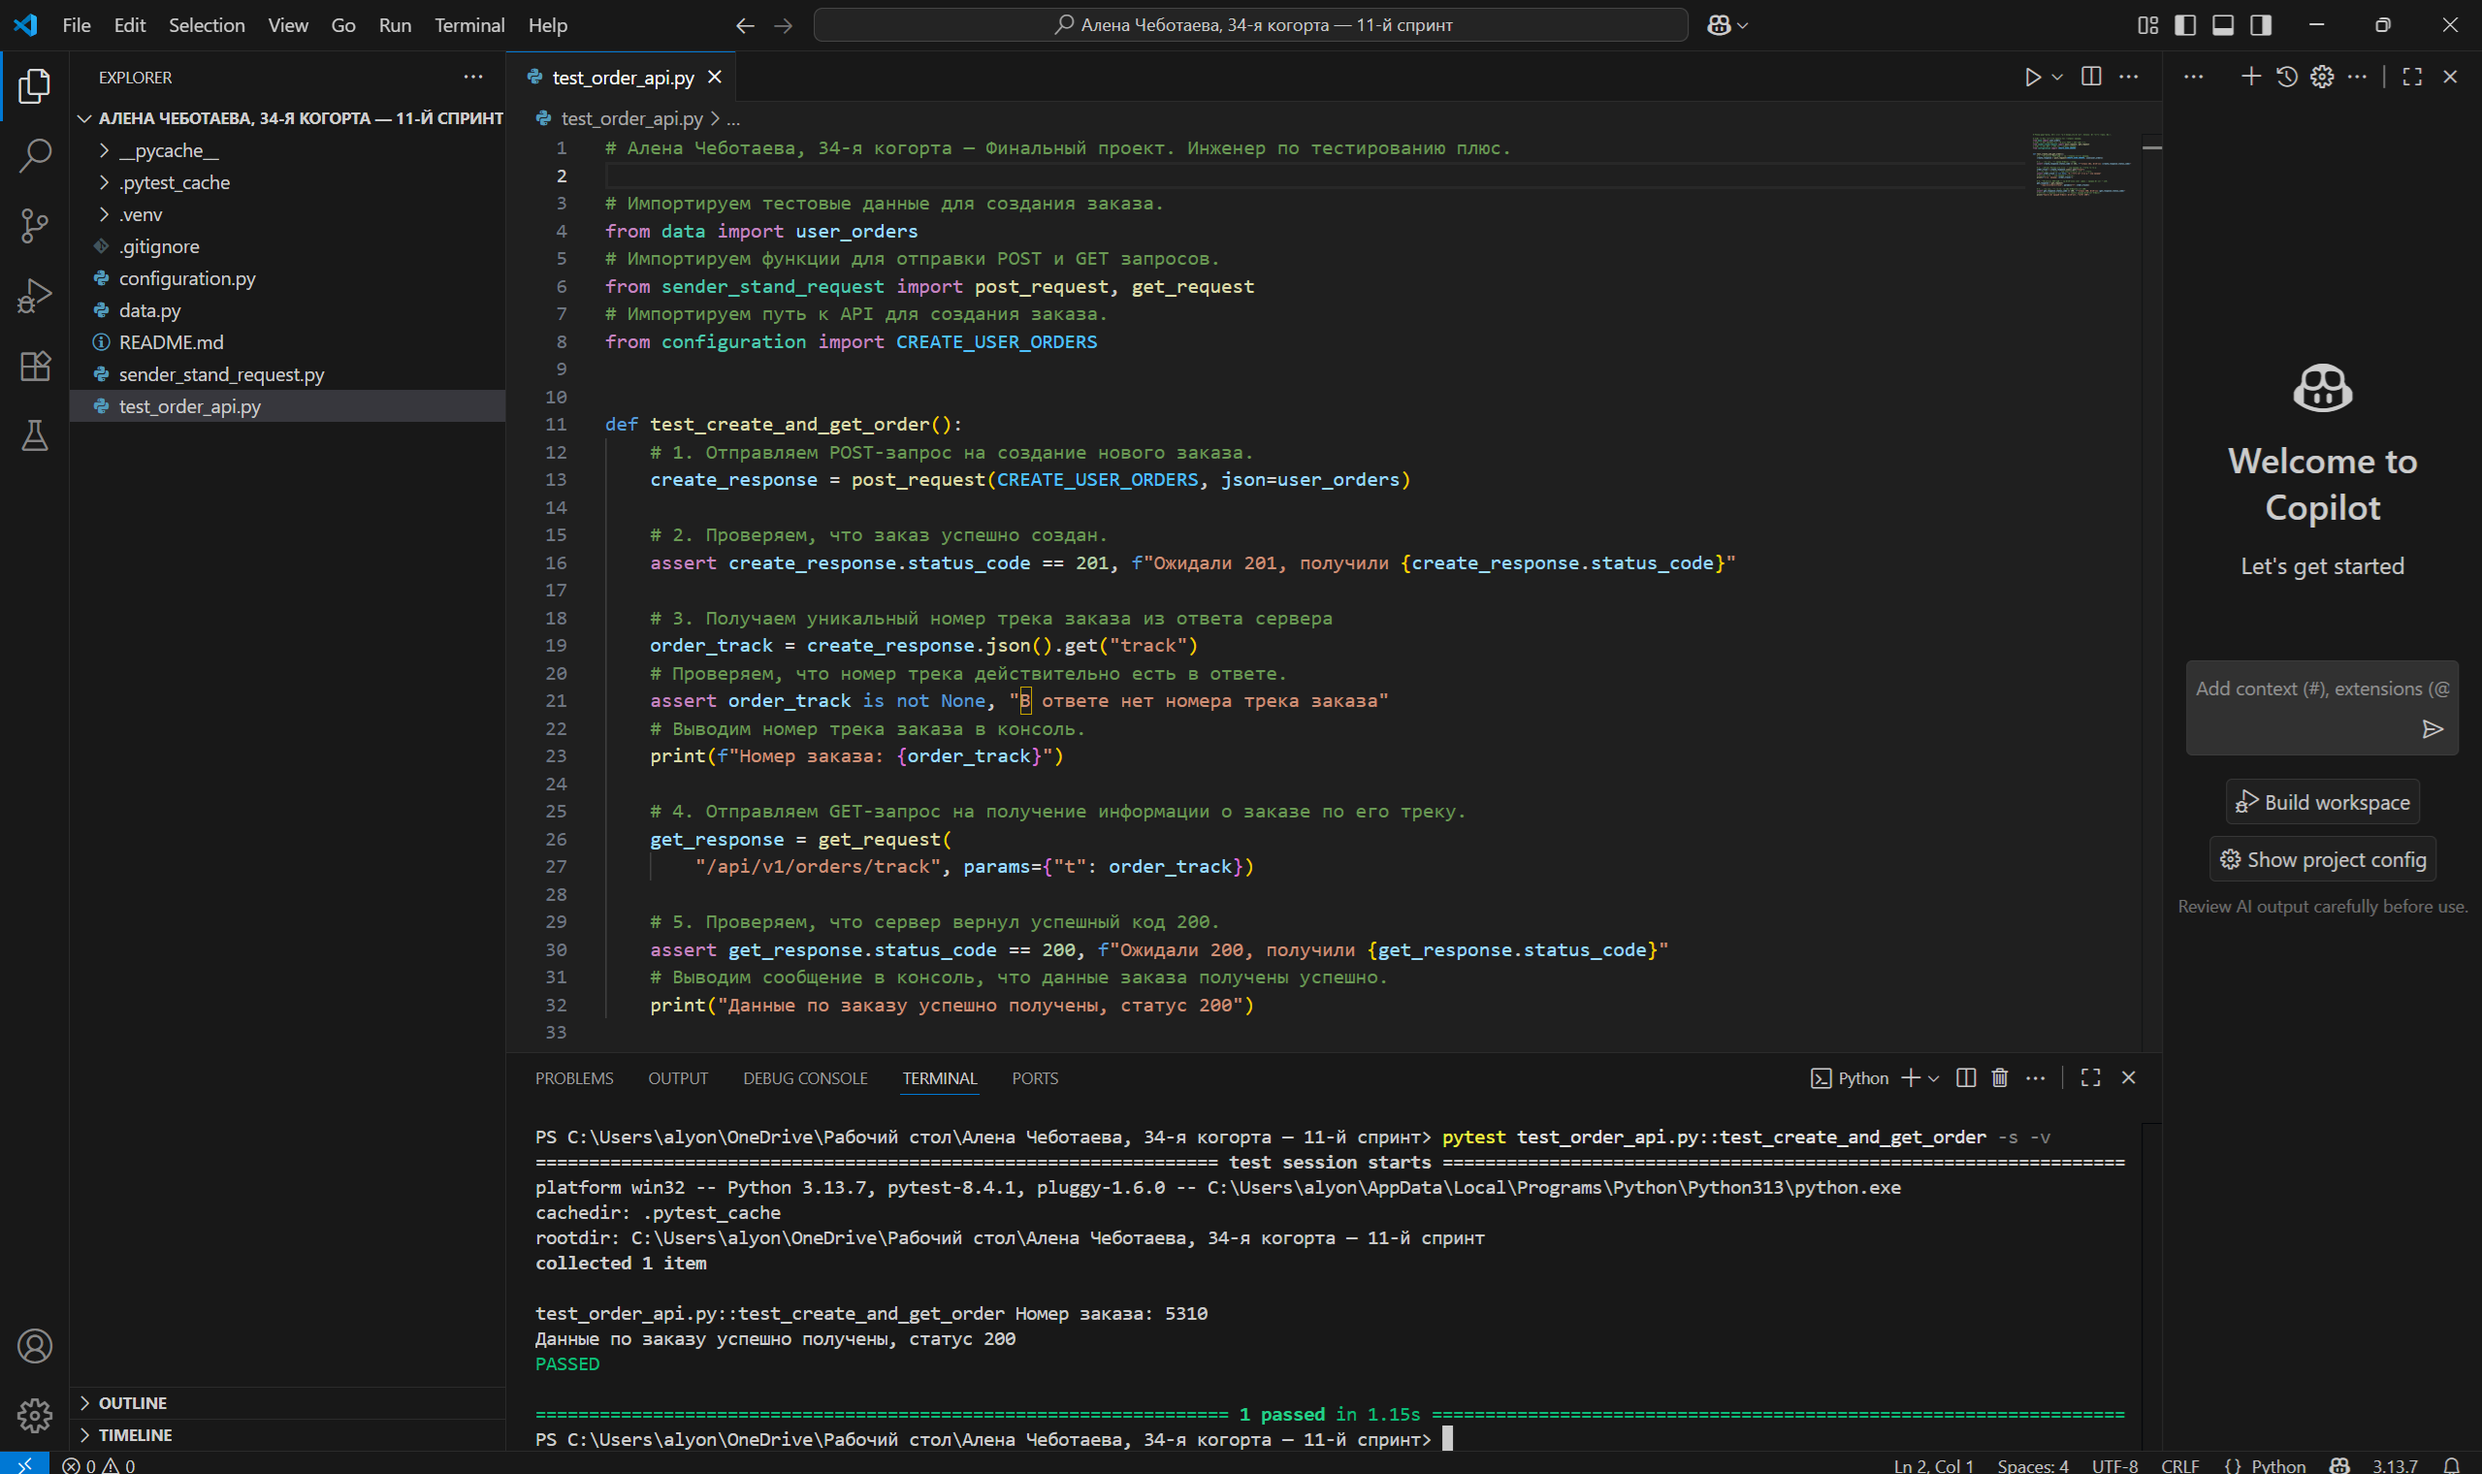
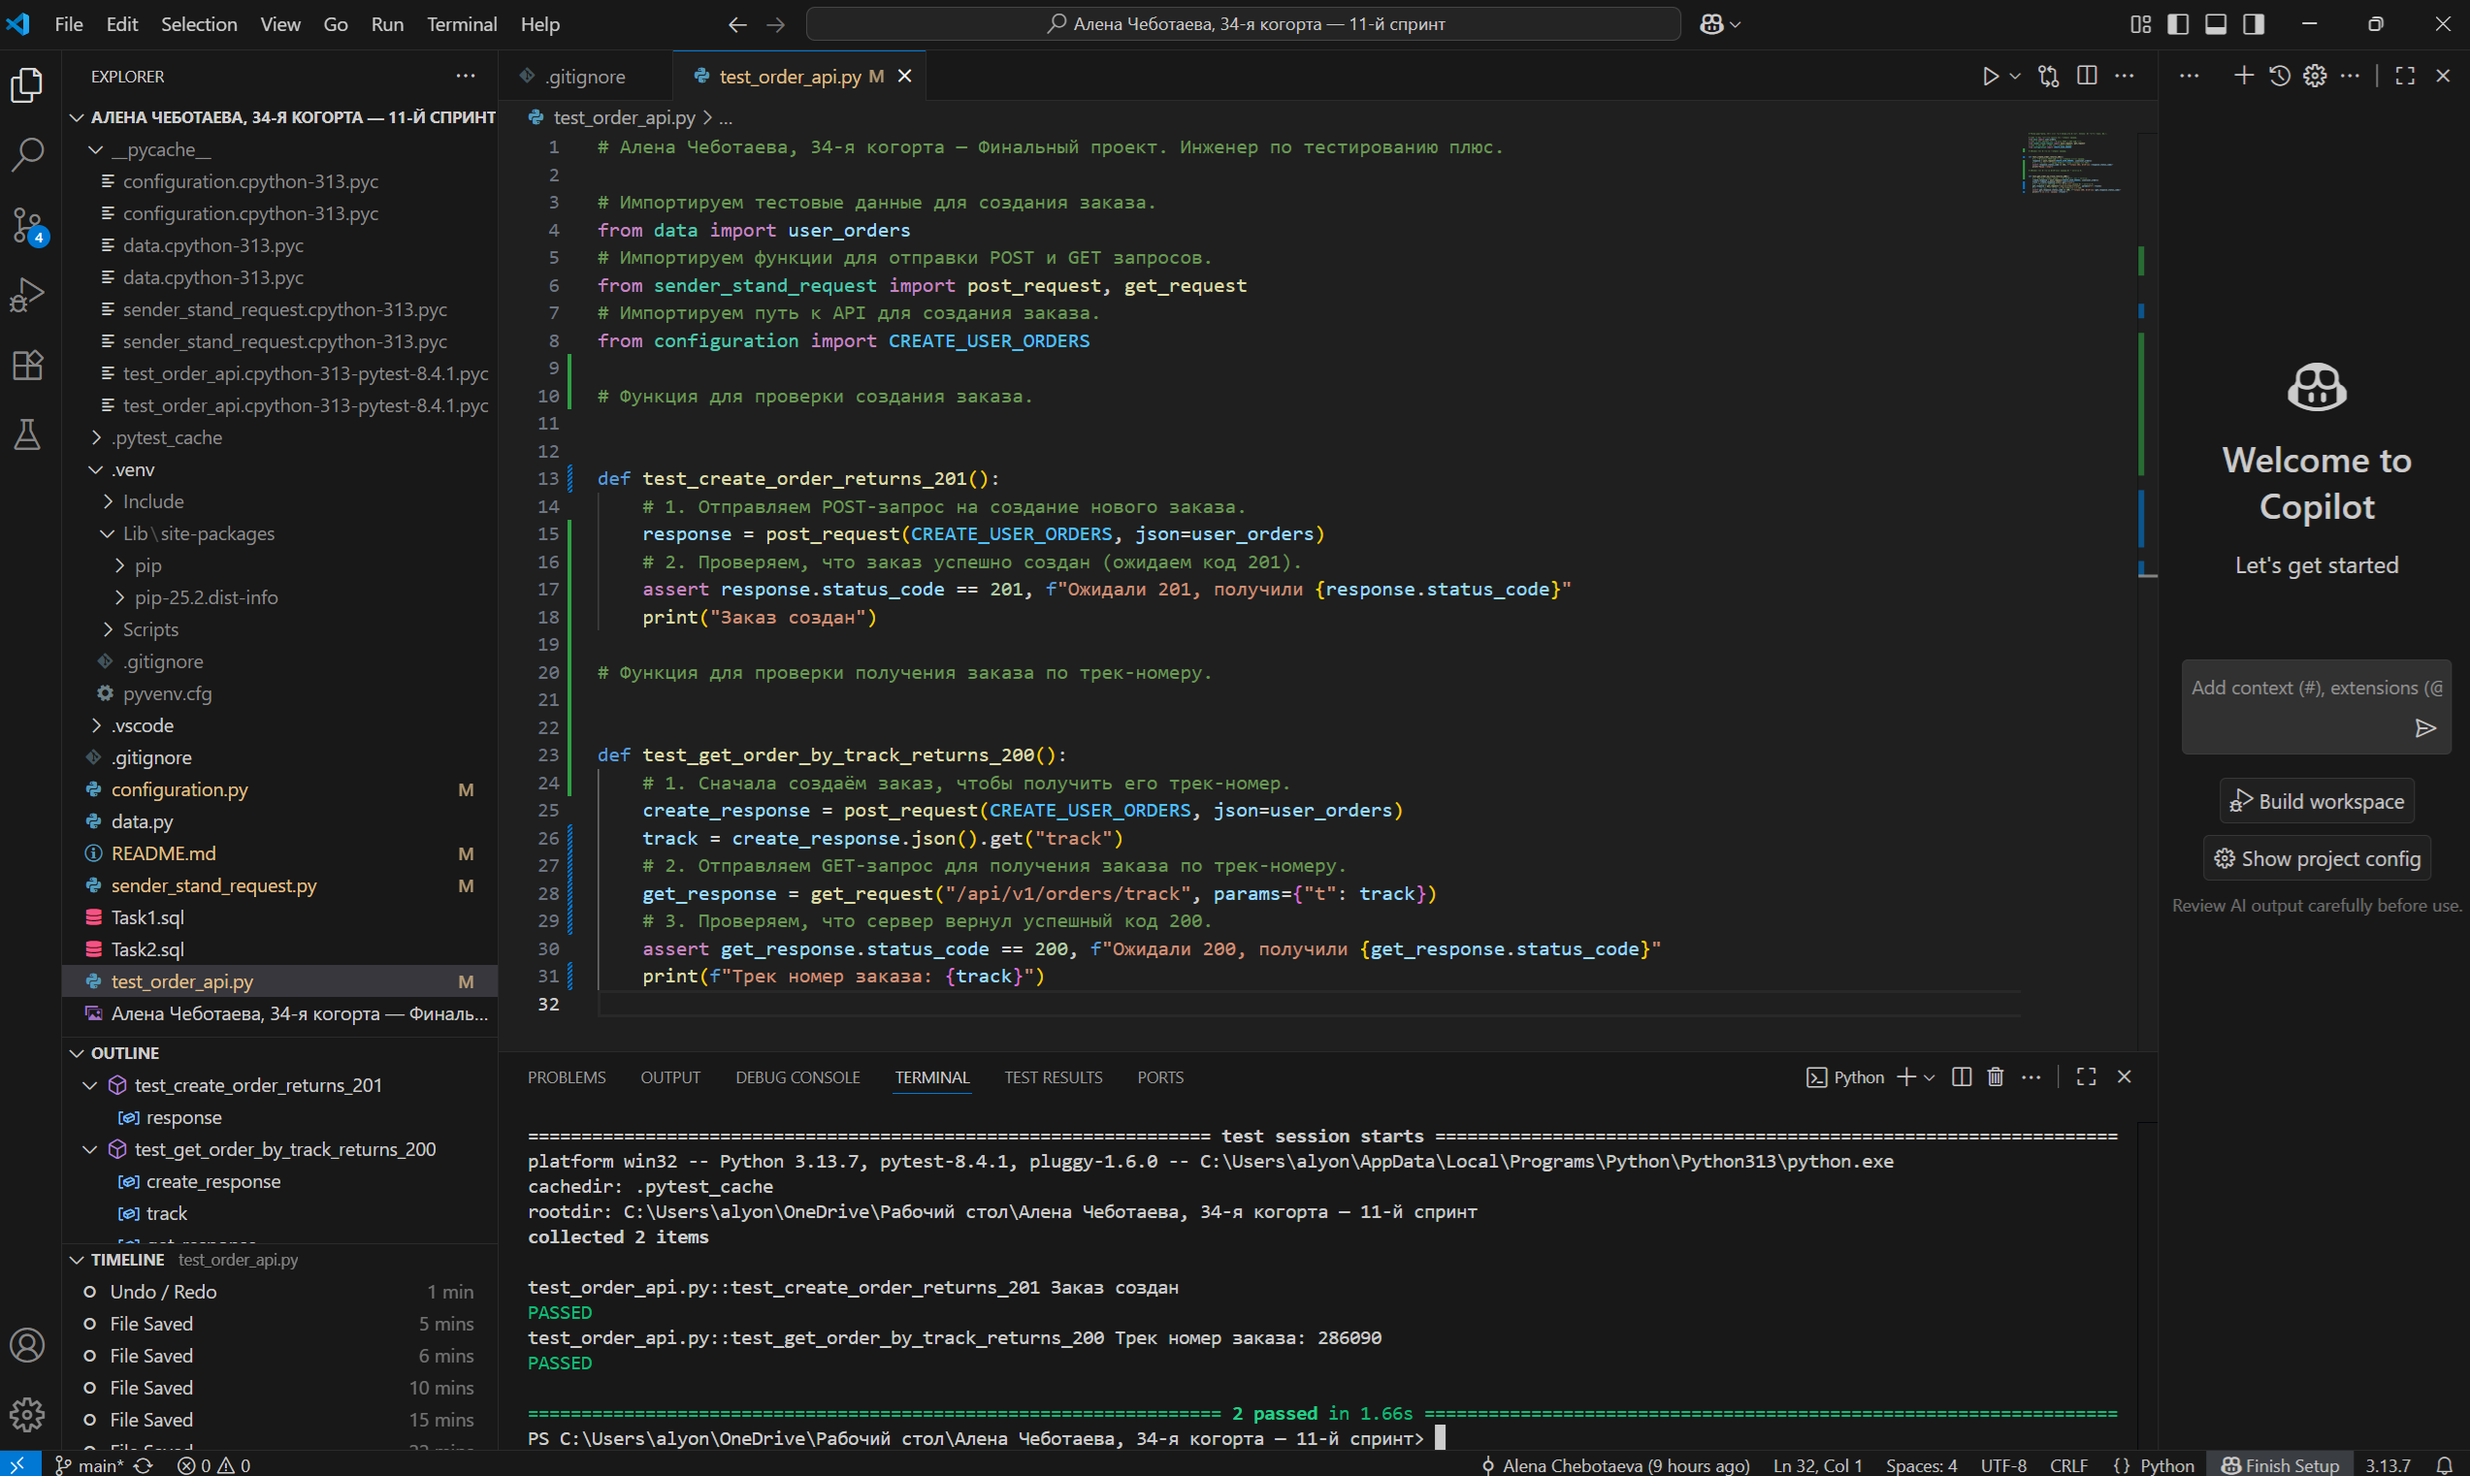
New files

diff --git a/test_order_api.py b/test_order_api.py
@@ -7,26 +7,25 @@ from sender_stand_request import post_request, get_request
 # Импортируем путь к API для создания заказа.
 from configuration import CREATE_USER_ORDERS
 
+# Функция для проверки создания заказа.
 
-def test_create_and_get_order():
+
+def test_create_order_returns_201():
     # 1. Отправляем POST-запрос на создание нового заказа.
+    response = post_request(CREATE_USER_ORDERS, json=user_orders)
+    # 2. Проверяем, что заказ успешно создан (ожидаем код 201).
+    assert response.status_code == 201, f"Ожидали 201, получили {response.status_code}"
+    print("Заказ создан")
+
+# Функция для проверки получения заказа по трек-номеру.
+
+
+def test_get_order_by_track_returns_200():
+    # 1. Сначала создаём заказ, чтобы получить его трек-номер.
     create_response = post_request(CREATE_USER_ORDERS, json=user_orders)
-
-    # 2. Проверяем, что заказ успешно создан.
-    assert create_response.status_code == 201, f"Ожидали 201, получили {create_response.status_code}"
-
-    # 3. Получаем уникальный номер трека заказа из ответа сервера
-    order_track = create_response.json().get("track")
-    # Проверяем, что номер трека действительно есть в ответе.
-    assert order_track is not None, "В ответе нет номера трека заказа"
-    # Выводим номер трека заказа в консоль.
-    print(f"Номер заказа: {order_track}")
-
-    # 4. Отправляем GET-запрос на получение информации о заказе по его треку.
-    get_response = get_request(
-        "/api/v1/orders/track", params={"t": order_track})
-
-    # 5. Проверяем, что сервер вернул успешный код 200.
+    track = create_response.json().get("track")
+    # 2. Отправляем GET-запрос для получения заказа по трек-номеру.
+    get_response = get_request("/api/v1/orders/track", params={"t": track})
+    # 3. Проверяем, что сервер вернул успешный код 200.
     assert get_response.status_code == 200, f"Ожидали 200, получили {get_response.status_code}"
-    # Выводим сообщение в консоль, что данные заказа получены успешно.
-    print("Данные по заказу успешно получены, статус 200")
+    print(f"Трек номер заказа: {track}")

diff --git a/sender_stand_request.py b/sender_stand_request.py
@@ -1,36 +1,16 @@
 # Импортируем библиотеку для работы с HTTP-запросами.
 import requests
 # Импортируем настройки проекта.
-from configuration import base_url, headers, log_file_path
-
+from configuration import base_url, headers
 
 # Функция для отправки POST-запроса на API.
-# endpoint - путь к методу API.
-def post_request(endpoint, json=None):
-    try:
-        # Выполняем POST-запрос.
-        response = requests.post(
-            f"{base_url}{endpoint}", headers=headers, json=json)
-        return response
-    except requests.RequestException as e:
-        # Если произошла ошибка запроса, записываем её в файл логов.
-        with open(log_file_path, "a") as f:
-            f.write(f"POST {endpoint} error: {e}\n")
-        # Повторно выбрасываем исключение для остановки теста или обработки.
-        raise
 
+
+def post_request(endpoint, json=None):
+    return requests.post(f"{base_url}{endpoint}", headers=headers, json=json)
 
 # Функция для отправки GET-запроса на API.
-# endpoint - путь к методу API.
+
+
 def get_request(endpoint, params=None):
-    try:
-        # Выполняем GET-запрос.
-        response = requests.get(
-            f"{base_url}{endpoint}", headers=headers, params=params)
-        return response
-    except requests.RequestException as e:
-        # Если произошла ошибка запроса, записываем её в файл логов.
-        with open(log_file_path, "a") as f:
-            f.write(f"GET {endpoint} error: {e}\n")
-        # Повторно выбрасываем исключение для остановки теста или обработки.
-        raise
+    return requests.get(f"{base_url}{endpoint}", headers=headers, params=params)

diff --git a/configuration.py b/configuration.py
@@ -1,5 +1,5 @@
 # URL_SERVICE хранит базовый URL веб-сервиса, который используется для доступа к API или другим ресурсам.
-base_url = "https://2ff6d963-77ac-4fca-b186-c6b407a712e6.serverhub.praktikum-services.ru"
+base_url = "https://8e9789a3-4325-477b-8b95-043d9bbfd375.serverhub.praktikum-services.ru"
 
 # CREATE_USER_ORDERS хранит путь к API-методу для создания нового заказа.
 # Этот путь будет использоваться для формирования полного URL-адреса в сочетании с базовым URL сервиса,

diff --git a/README.md b/README.md
@@ -18,4 +18,6 @@
 
 ## Запуск теста
 ```bash
-pytest test_order_api.py::test_create_and_get_order -s -v
+pytest -s -v test_order_api.py::test_get_order_by_track_returns_200 # Трек номер заказа.
+pytest -s -v test_order_api.py::test_create_order_returns_201 # Заказ сделан.
+pytest -s -v test_order_api.py # Запустить все тесты.
